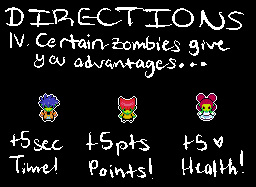
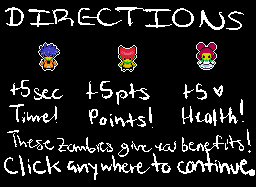
Added art for the game over screens! -MAV

diff --git a/src/Game.java b/src/Game.java
@@ -245,17 +245,14 @@ public class Game {
   }
 
   private void gameOverScreen() {
-
     grid.close();
     backgroundMusic.pauseSound();
-
     if (health == 0) {
       splash = new Grid(5, 10, "images\\gameOverScreenH.png");
       splash.setTitle("GAME OVER");
       splash.fullscreen();
       splash.waitForClick();
       splash.close();
-
     } else if (getTime() < 0) {
       splash = new Grid(5, 10, "images\\gameOverScreenT.png");
       splash.setTitle("GAME OVER");
@@ -342,8 +339,7 @@ public class Game {
 
   public static void main(String[] args) {
     Game game = new Game();
-
-    while (shouldGameContinue) {
+    while (shouldGameContinue) {  // REPEATS GAME
       game.play();
     }
   }
